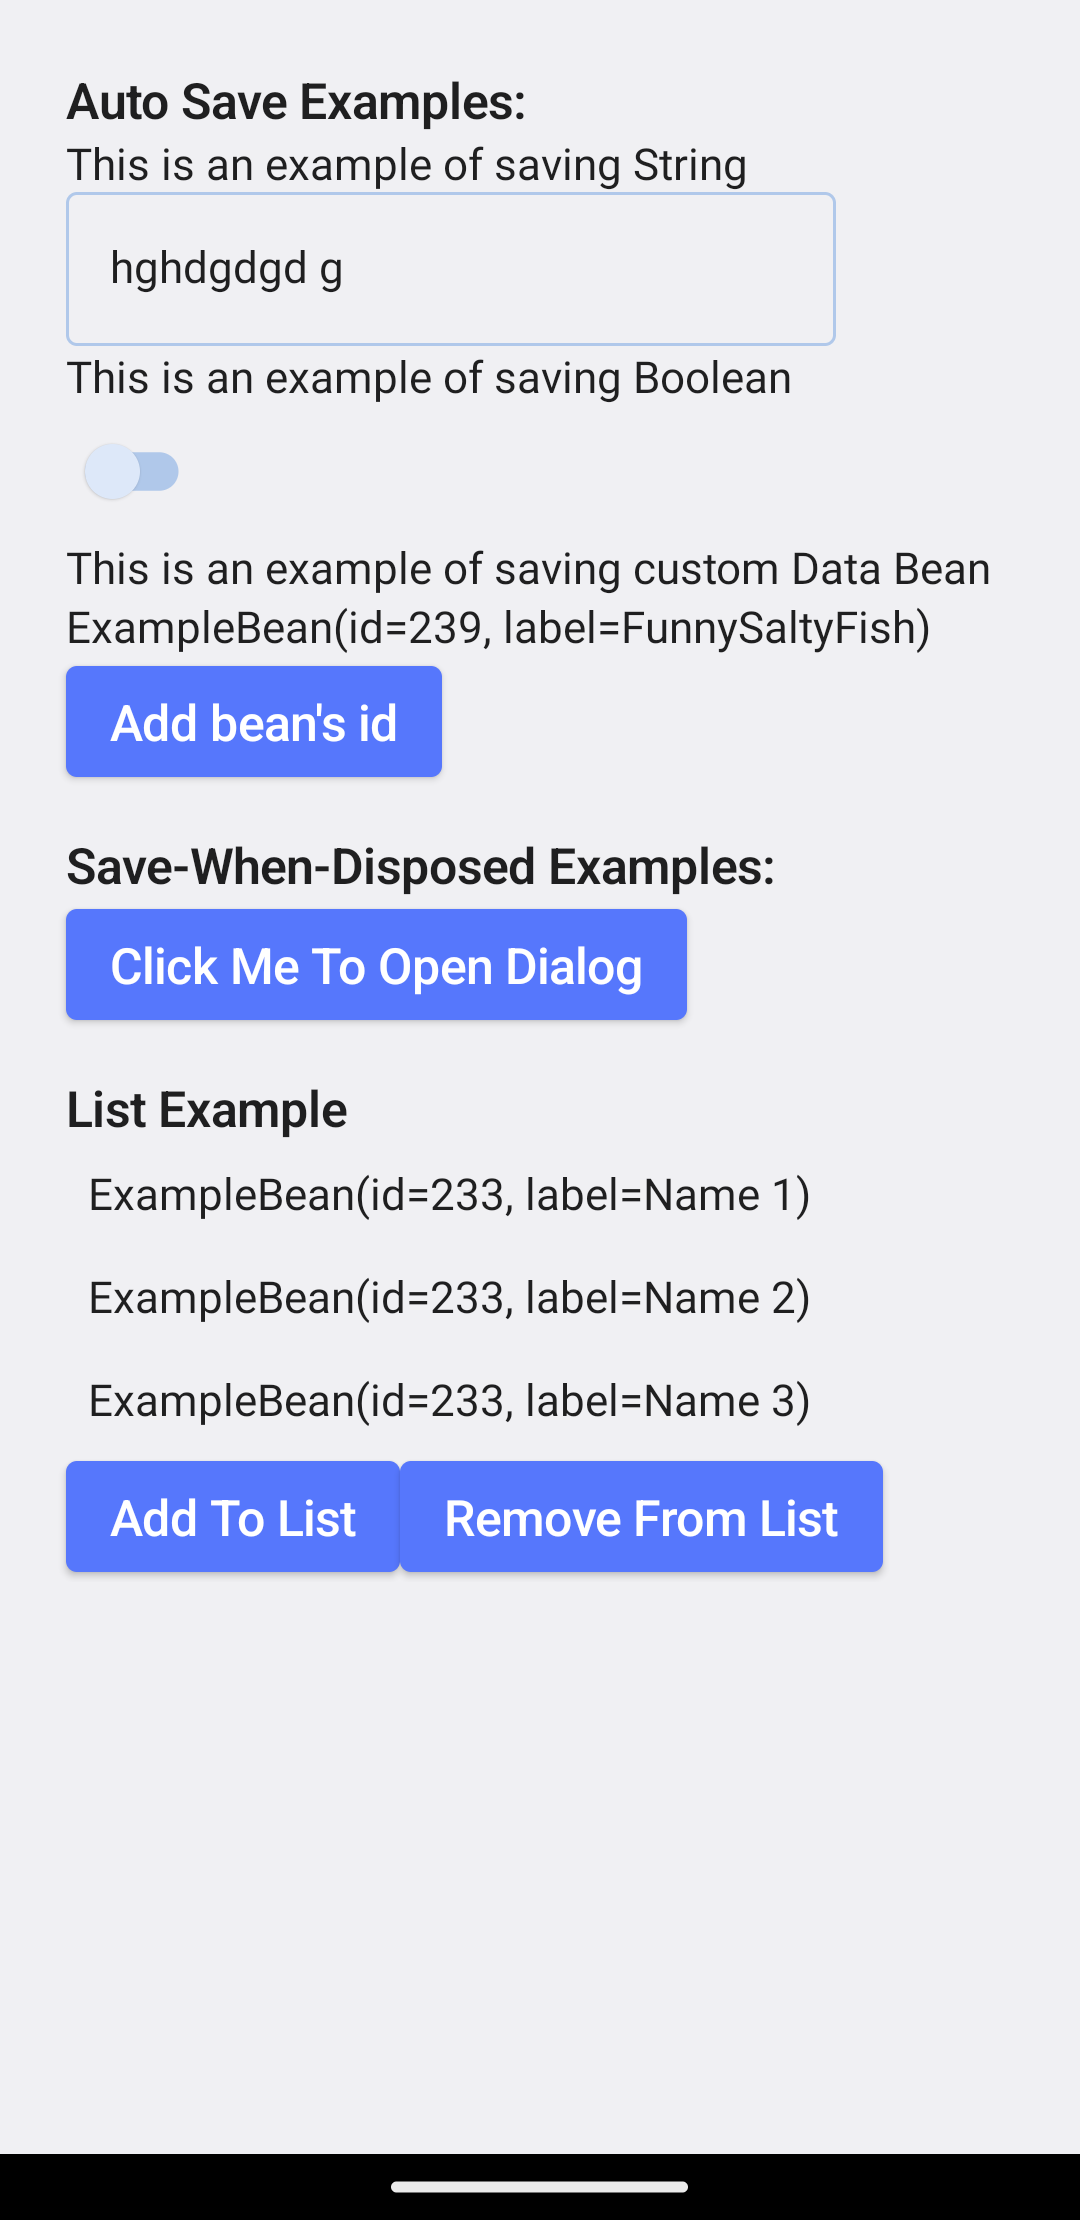
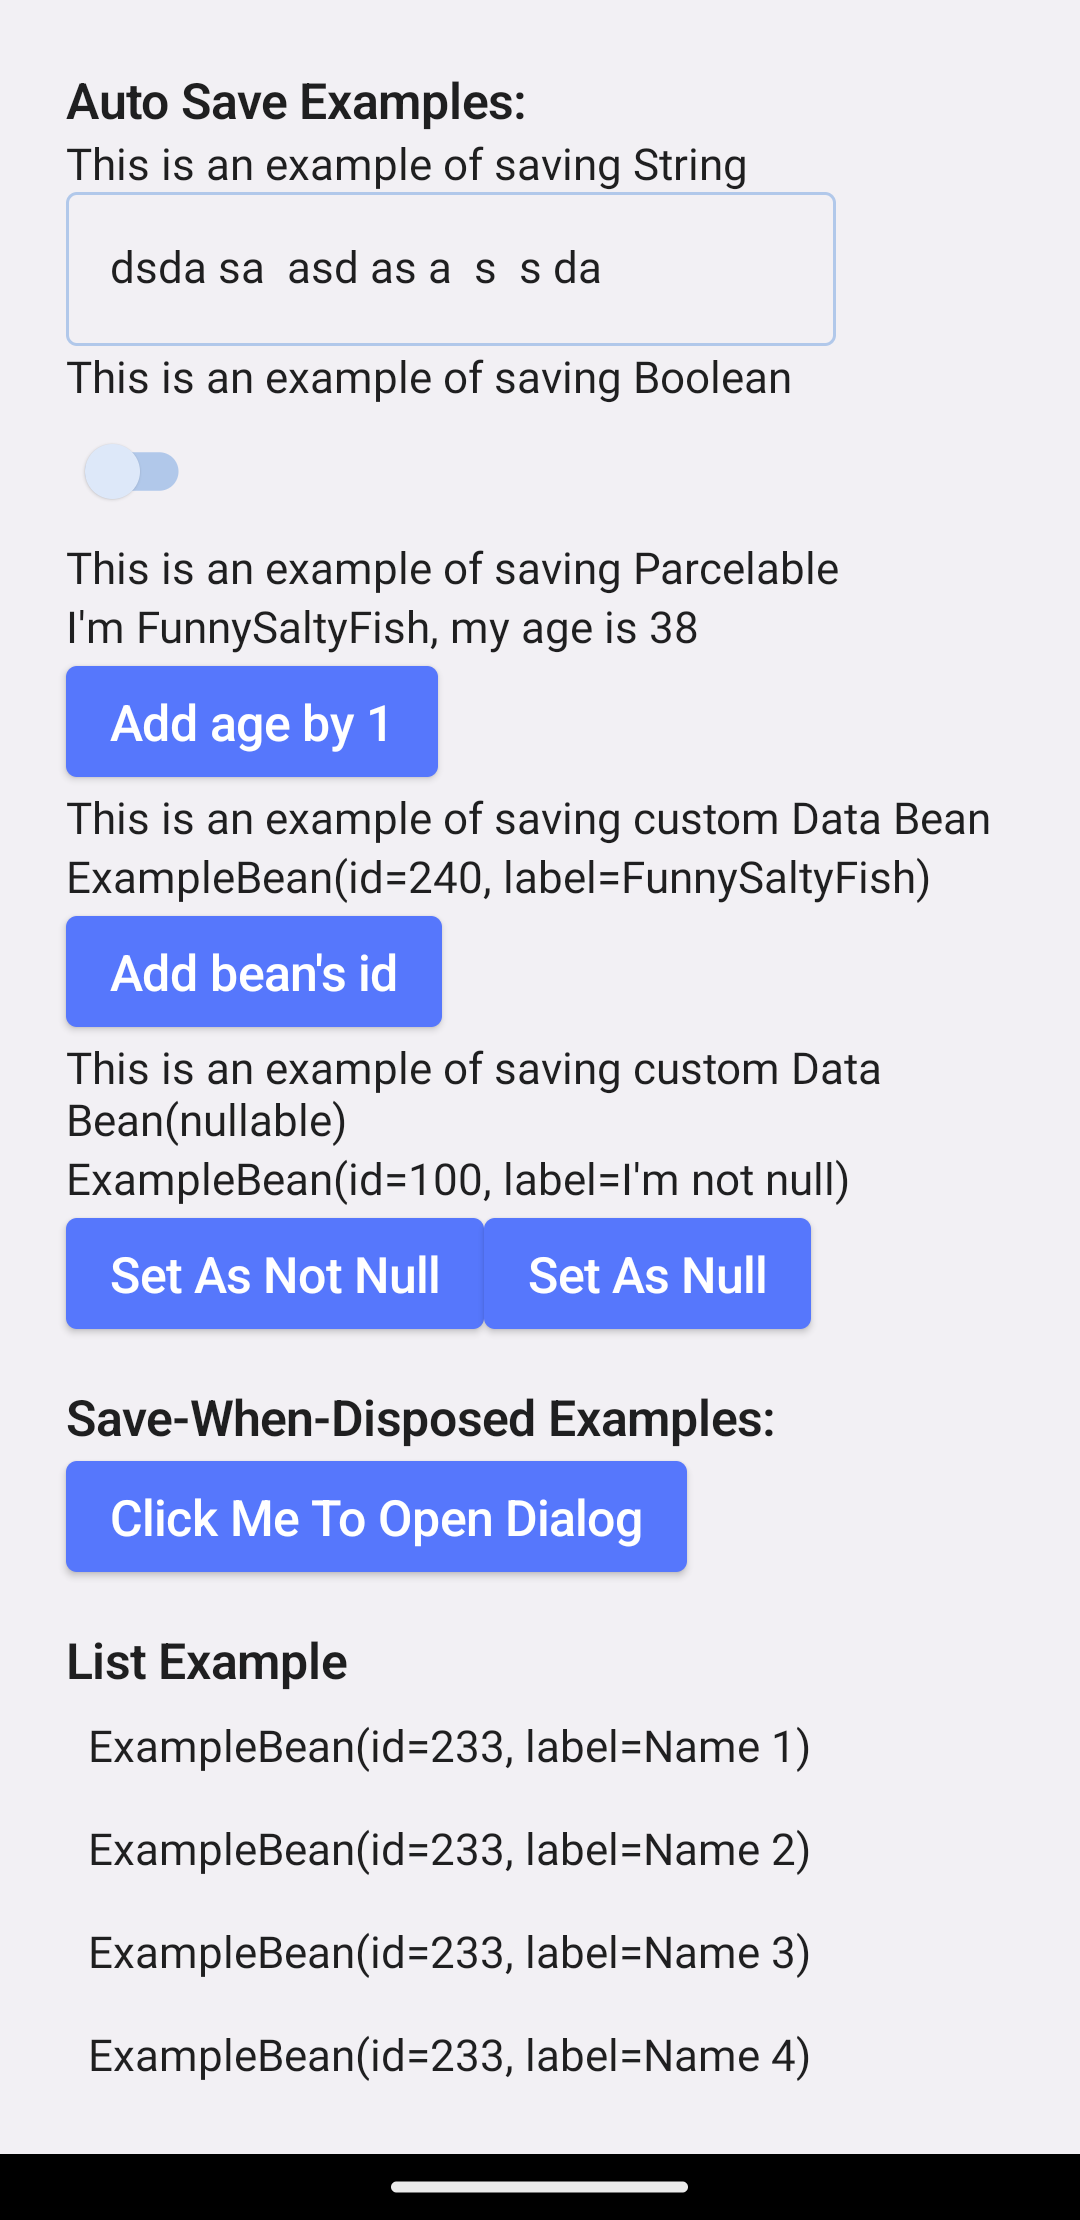
update README for v1.1.4

diff --git a/app/src/main/java/com/funny/composedatasaver/ExampleActivity.kt b/app/src/main/java/com/funny/composedatasaver/ExampleActivity.kt
@@ -13,6 +13,7 @@ import com.funny.composedatasaver.ui.ExampleComposable
 import com.funny.composedatasaver.ui.theme.FunnyTheme
 import com.funny.data_saver.core.DataSaverConverter.registerTypeConverters
 import com.funny.data_saver.core.LocalDataSaver
+import com.funny.data_saver_mmkv.DataSaverMMKV
 import com.funny.data_saver_mmkv.DefaultDataSaverMMKV
 import com.tencent.mmkv.MMKV
 import kotlinx.serialization.ExperimentalSerializationApi
@@ -33,6 +34,7 @@ class ExampleActivity : ComponentActivity() {
         // If you want to use [MMKV](https://github.com/Tencent/MMKV) to save data
         MMKV.initialize(applicationContext)
         val dataSaverMMKV = DefaultDataSaverMMKV
+        // or DataSaverMMKV(MMKV.defaultMMKV())
         // you can use DefaultDataSaverMMKV like `DefaultDataSaverMMKV.readData(key, default)` and `DefaultDataSaverMMKV.saveData(key, value) anywhere`
 
         // if you want to use [DataStorePreference](https://developer.android.google.cn/jetpack/androidx/releases/datastore) to save data

diff --git a/README.md b/README.md
@@ -62,9 +62,7 @@ dependencies {
 
 ```kotlin
 // init preferences
-val dataSaverPreferences = DataSaverPreferences().apply {
-	setContext(context = applicationContext)
-}
+val dataSaverPreferences = DataSaverPreferences(applicationContext)
 CompositionLocalProvider(LocalDataSaver provides dataSaverPreferences){
 	ExampleComposable()
 }
@@ -135,16 +133,18 @@ inline fun <reified T> mutableDataSaverStateOf(
 ```bash
 // if you want to use mmkv
 implementation "com.github.FunnySaltyFish.ComposeDataSaver:data-saver-mmkv:{tag}"
-implementation 'com.tencent:mmkv:1.2.12'
+implementation 'com.tencent:mmkv:1.2.14'
 ```
 
 2. 如下初始化
 
 ```kotlin
 MMKV.initialize(applicationContext)
-val dataSaverMMKV = DataSaverMMKV().apply {
-    setKV(newKV = MMKV.defaultMMKV())
-}
+...
+
+val dataSaverMMKV = DefaultDataSaverMMKV
+// DefaultDataSaverMMKV 是我们提供的默认实现，您可以在任何地方使用它，就像一个 MMKVUtils 那样
+// 如果有定制 MMKV 的需要，可以选择 DataSaverMMKV(MMKV.defaultMMKV())
 
 CompositionLocalProvider(LocalDataSaver provides dataSaverMMKV){
     // ...
@@ -169,14 +169,29 @@ implementation "androidx.datastore:datastore-preferences:$data_store_version"
 
 ```kotlin
 val Context.dataStore : DataStore<Preferences> by preferencesDataStore("dataStore")
-val dataSaverDataStorePreferences = DataSaverDataStorePreferences().apply {
-    setDataStorePreferences(applicationContext.dataStore)
-}
+val dataSaverDataStorePreferences = DataSaverDataStorePreferences(applicationContext.dataStore)
 
 CompositionLocalProvider(LocalDataSaver provides dataSaverDataStorePreferences){
     // ...
 }
 ```
+
+
+
+三者默认支持的类型如下所示
+
+|   类型    | DataSaverPreference | DataSaverMMKV | DataSaverDataStorePreferences |
+| :-------: | :-----------------: | :-----------: | :---------------------------: |
+|    Int    |          Y          |       Y       |               Y               |
+|  Boolean  |          Y          |       Y       |               Y               |
+|  String   |          Y          |       Y       |               Y               |
+|   Long    |          Y          |       Y       |               Y               |
+|   Float   |          Y          |       Y       |               Y               |
+|  Double   |                     |       Y       |               Y               |
+| Parceable |                     |       Y       |                               |
+| ByteArray |                     |       Y       |                               |
+
+更多类型的支持请参见 [保存自定义类型](#保存自定义类型)
 
 ---
 
@@ -189,6 +204,7 @@ interface DataSaverInterface{
     fun <T> saveData(key:String, data : T)
     fun <T> readData(key: String, default : T) : T
     suspend fun <T> saveDataAsync(key:String, data : T) = saveData(key, data)
+    fun remove(key: String)
 }
 ```
 
@@ -213,7 +229,7 @@ CompositionLocalProvider(LocalDataSaver provides dataSaverXXX){
 因为默认的`DataSaverPreferences`并不提供自定义类型的保存（当尝试这样做时会报错），所以您可以从以下两种方式中**任选其一**以保存自定义数据。
 
 
-1. 通过`registerTypeConverters`将实体类序列化为其他基本类型（如String）再储存
+1. 通过`DataSaverConverter.registerTypeConverters`将实体类序列化为 String 再储存
 2. 重写自己的`DataSaverInterface`实现类（见上）并实现相关的保存方法
 
 对于第一种方式，您需要为对应实体类添加转换器，以实现保存时自动转换为String、并从String还原。方法如下：
@@ -293,6 +309,29 @@ object DataSaverConfig {
 v1.1.0 对`DataSaverInterface` 新增了 `suspend fun saveDataAsync` ，用于异步保存。默认情况下，它等同于 `saveData`。对于支持协程的框架（如`DataStore`），使用此实现有助于充分利用协程优势（默认给出的`DataStorePreference`就是如此）。
 
 在`mutableDataSavarStateOf` 和 `rememberMutableDataSavarState` 函数调用处可以设置`async`以启用异步保存，默认为`true`。
+
+
+
+### Null 支持
+
+v1.1.4 放宽了自定义类型时为 `null` 的情况，可以通过
+
+```kotlin
+registerTypeConverters<ExampleBean?>(
+    save = { bean -> Json.encodeToString(bean) },
+    restore = { str -> Json.decodeFromString(str) }
+)
+```
+
+来支持 `null` 作默认值
+
+```kotlin
+val nullableCustomBeanState: DataSaverMutableState<ExampleBean?> = rememberDataSaverState(key = "nullable_bean", initialValue = null)
+```
+
+请注意，出于代码的实现上的考虑，设置 `state.value = null` 或 `dataSaverInterface.saveData(key, null)` 实际**将调用对应 `remove` 方法直接移除对应值**
+
+
 
 
 
